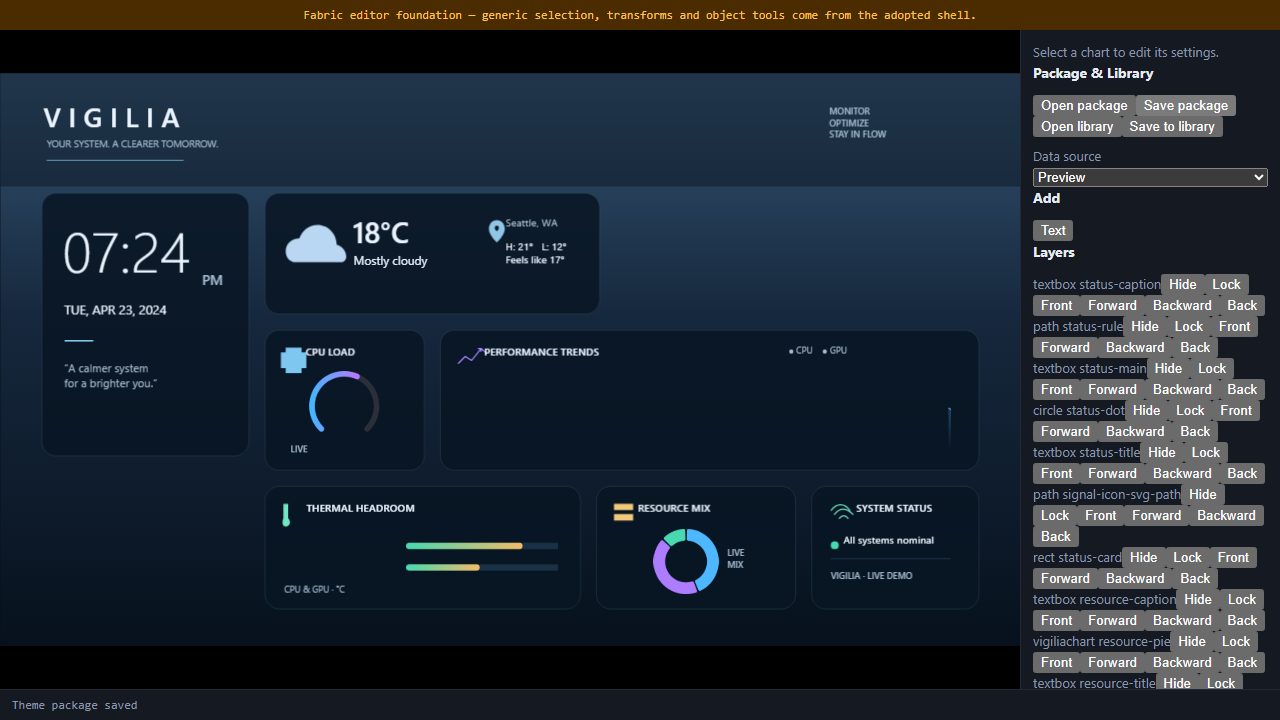
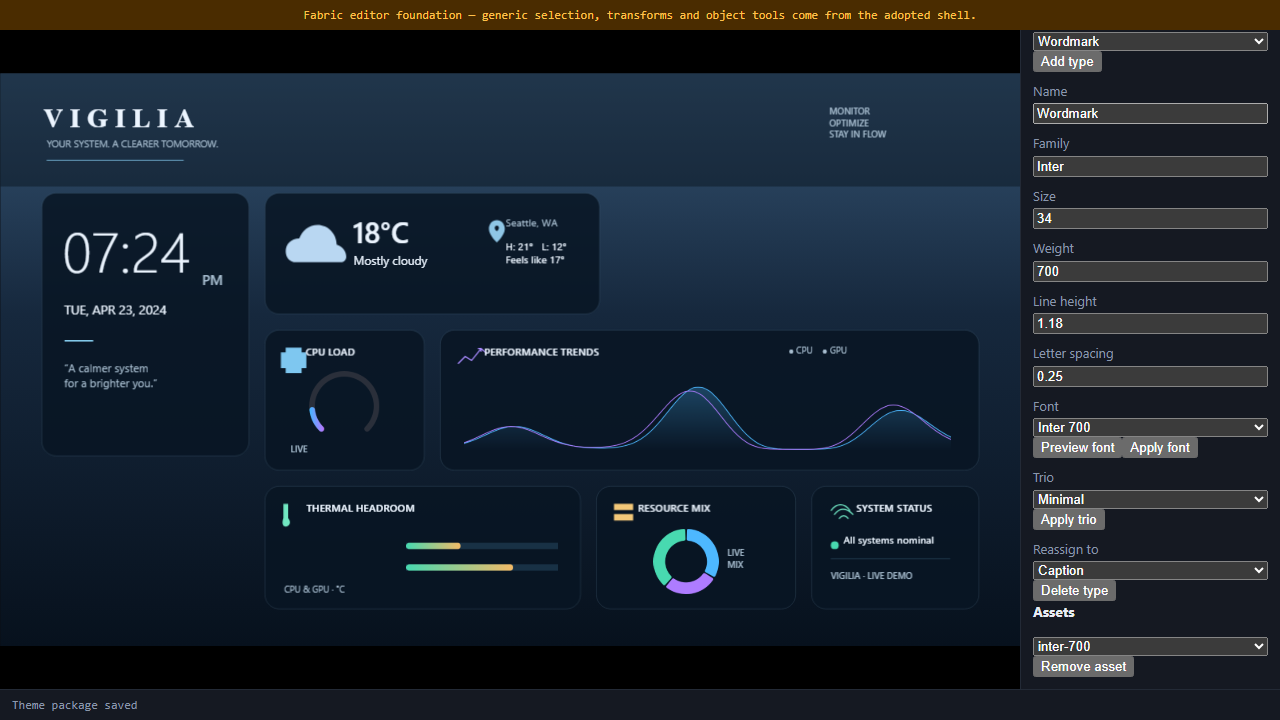
test(editor): prove type preset package round trip

diff --git a/src/web/tests/e2e/editor-fork.spec.ts b/src/web/tests/e2e/editor-fork.spec.ts
@@ -363,16 +363,53 @@ test.describe("Fabric editor route", () => {
     );
 
     await page.goto(EDITOR);
+    await page.route("https://cdn.jsdelivr.net/fontsource/fonts/**", (route) =>
+      route.fulfill({ body: Buffer.from([0, 1, 2]) }),
+    );
     await page.locator("[data-vigilia-type-preset]").selectOption("32-500");
+    await page.locator("[data-vigilia-font-face]").selectOption("inter-700");
+    await page.locator("[data-vigilia-font-apply]").click();
     const size = page.locator("[data-vigilia-type-size]");
     await size.fill("34");
     await size.press("Tab");
     await expect(size).toHaveValue("34");
+    const letterSpacing = page.locator("[data-vigilia-type-letter-spacing]");
+    await letterSpacing.fill("0.25");
+    await letterSpacing.press("Tab");
 
-    const envelope = (await saveEnvelope(page)) as {
-      globals: { typePresets: { "32-500": { value: { size: number } } } };
+    const saved = await savePackage(page);
+    await page.locator('input[accept=".vigilia-theme"]').setInputFiles({
+      name: "type-preset.vigilia-theme",
+      mimeType: "application/octet-stream",
+      buffer: saved.bytes,
+    });
+    await expect(page.locator("#status")).toHaveText(
+      "Opened type-preset.vigilia-theme",
+    );
+    await page.locator("[data-vigilia-type-preset]").selectOption("32-500");
+    const reopened = (await saveEnvelope(page)) as {
+      globals: {
+        typePresets: {
+          "32-500": {
+            value: {
+              size: number;
+              letterSpacing: number;
+              face: { assetId: string };
+              trioRole: string;
+            };
+          };
+        };
+      };
     };
-    expect(envelope.globals.typePresets["32-500"].value.size).toBe(34);
+    expect(reopened.globals.typePresets["32-500"].value).toMatchObject({
+      size: 34,
+      letterSpacing: 0.25,
+      face: { assetId: "inter-700" },
+      trioRole: "heading",
+    });
+    await page
+      .locator("[data-vigilia-type-letter-spacing]")
+      .scrollIntoViewIfNeeded();
     await captureVisualReview(page, testInfo, "editor-fork-type-preset");
   });
 

diff --git a/.agents/status.md b/.agents/status.md
@@ -1,4 +1,4 @@
-# Status — 2026-09-20
+# Status — 2026-09-21
 
 Current handoff only. Durable rules: `AGENTS.md`; product:
 `product-requirements.md`; architecture: `architecture.md`; active work: specs
@@ -8,6 +8,7 @@ Current handoff only. Durable rules: `AGENTS.md`; product:
 
 | Check | Result |
 |---|---|
+| Spec 0011 property corrections | Focused preset/artboard/Release DOM tests, editor typecheck and editor build passed on 2026-09-21; desktop Chromium package round-trip applied `Inter 700`, edited letter spacing to `0.25`, and retained face/trio metadata after reopen; inspected `editor-fork-type-preset-desktop-chromium.png` shows those controls and the packaged font asset |
 | Editor configuration | `.gitattributes` enforces LF checkout; stale C#/.NET rules removed; `git check-attr` verified text files resolve to `eol: lf` |
 | Web quality tooling | Biome 2.5.14 `format:check` and lint for strict equality, unused symbols and floating promises, seven-project typecheck, 946-unit suite, workspace build and player-size gate passed on 2026-09-20; Markdown/YAML are not yet linted |
 | CI licence notices | The `Licence notices present` job failed before the frontend job because its exact package-name check could not find `@playwright/test`; the notice now uses the declared name and needs CI confirmation |
@@ -64,7 +65,7 @@ unit, build, size and visual evidence. The full browser suite is not green.
 
 ## Next
 
-1. Complete spec 0011 lossless type-preset edits and Release-only version mutation.
+1. Define the remaining spec-0011 Vigilia creation command set before implementing it.
 2. Revisit remaining spec-0014 candidates only when needed.
 3. Modernize the shell per product requirements §35 only after the authoring core is stable.
 

diff --git a/.agents/specs/0011-editor-property-model.md b/.agents/specs/0011-editor-property-model.md
@@ -1,6 +1,6 @@
 # 0011 — Editor property and theme-token model
 
-- **Status:** active; property and asset foundations implemented; lossless type-preset edits, release-version policy and remaining creation commands pending
+- **Status:** active; property and asset foundations implemented; broader Vigilia creation commands pending
 - **Design sections:** §57, §73, §75, §83, §87, §89, §137, §170
 
 ## Goal
@@ -172,9 +172,9 @@ authoring/reassignment including curated font trio/single-face adoption;
 semantic text creation; semantic layers with inherited visibility/lock/order;
 and selection-relative align/distribute.
 
-Still incomplete: lossless type-preset field editing including letter spacing,
-release-version mutation restricted to Release, and broader Vigilia creation
-commands.
+Still incomplete: broader Vigilia creation commands. The current Text command
+uses derived valid references; the spec does not yet define the additional
+command set.
 
 The development v2 semantic shape may still break before release; the Fabric
 scene envelope boundary is settled.
